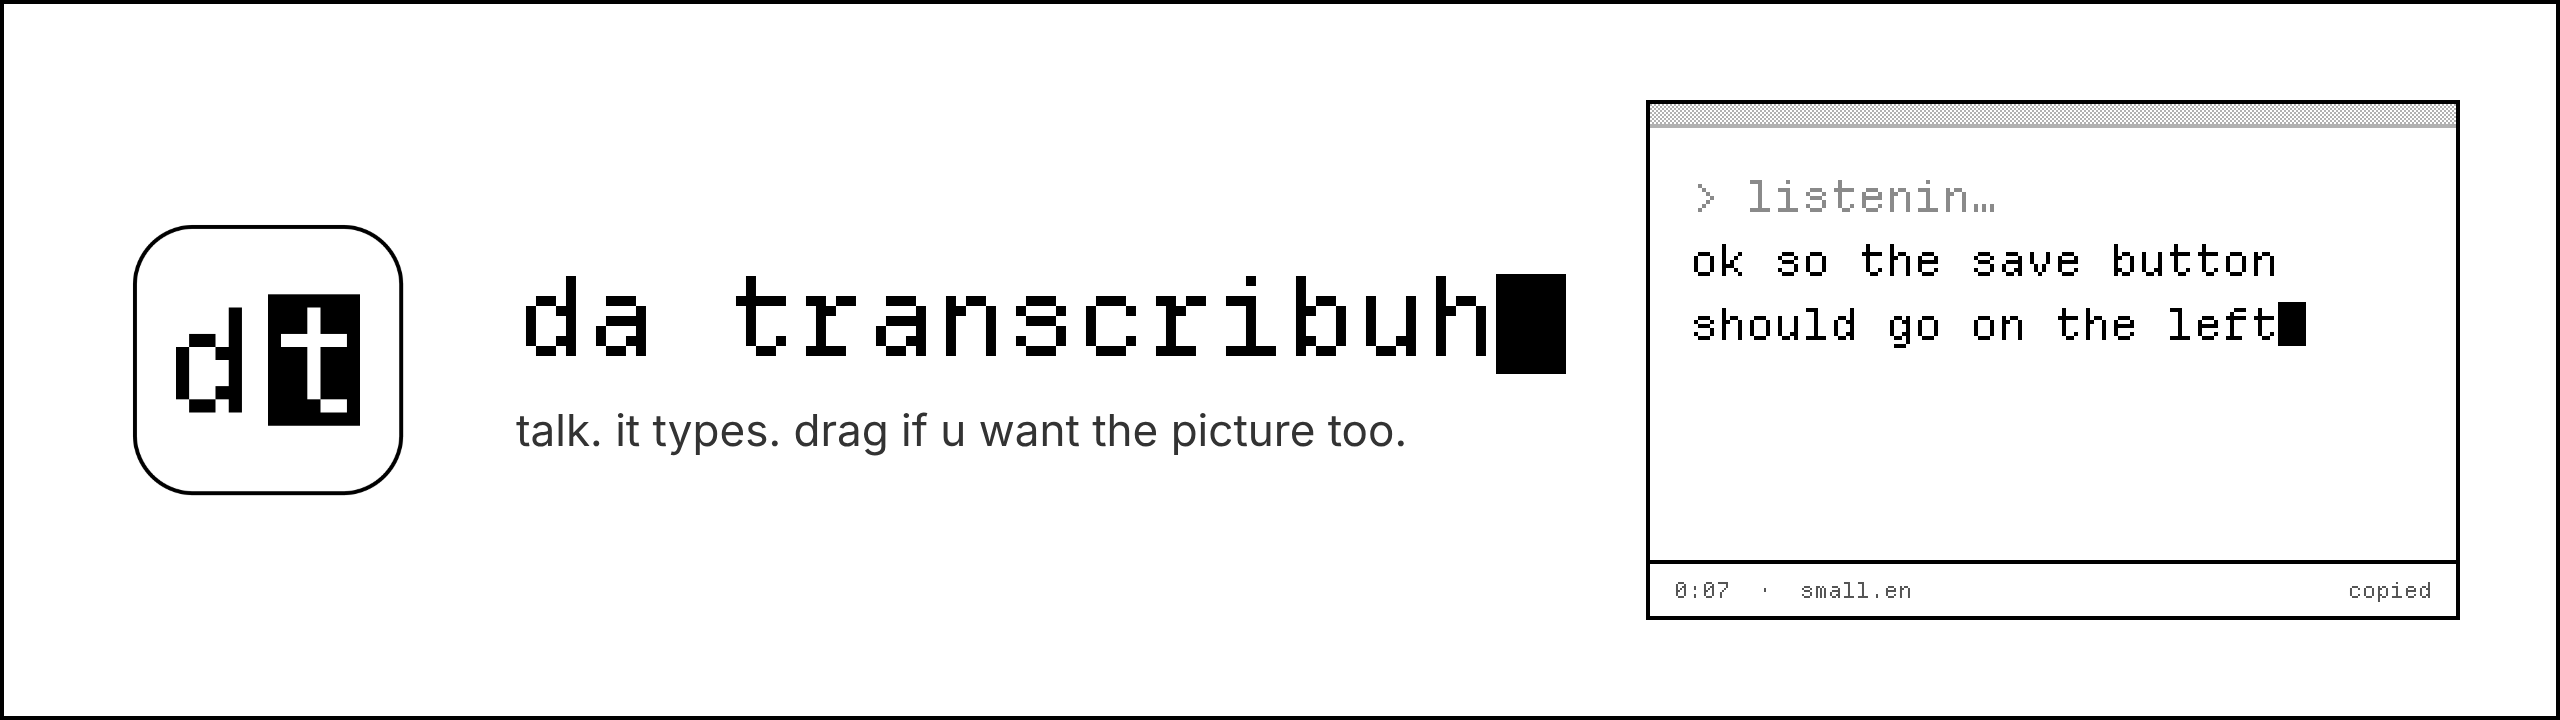
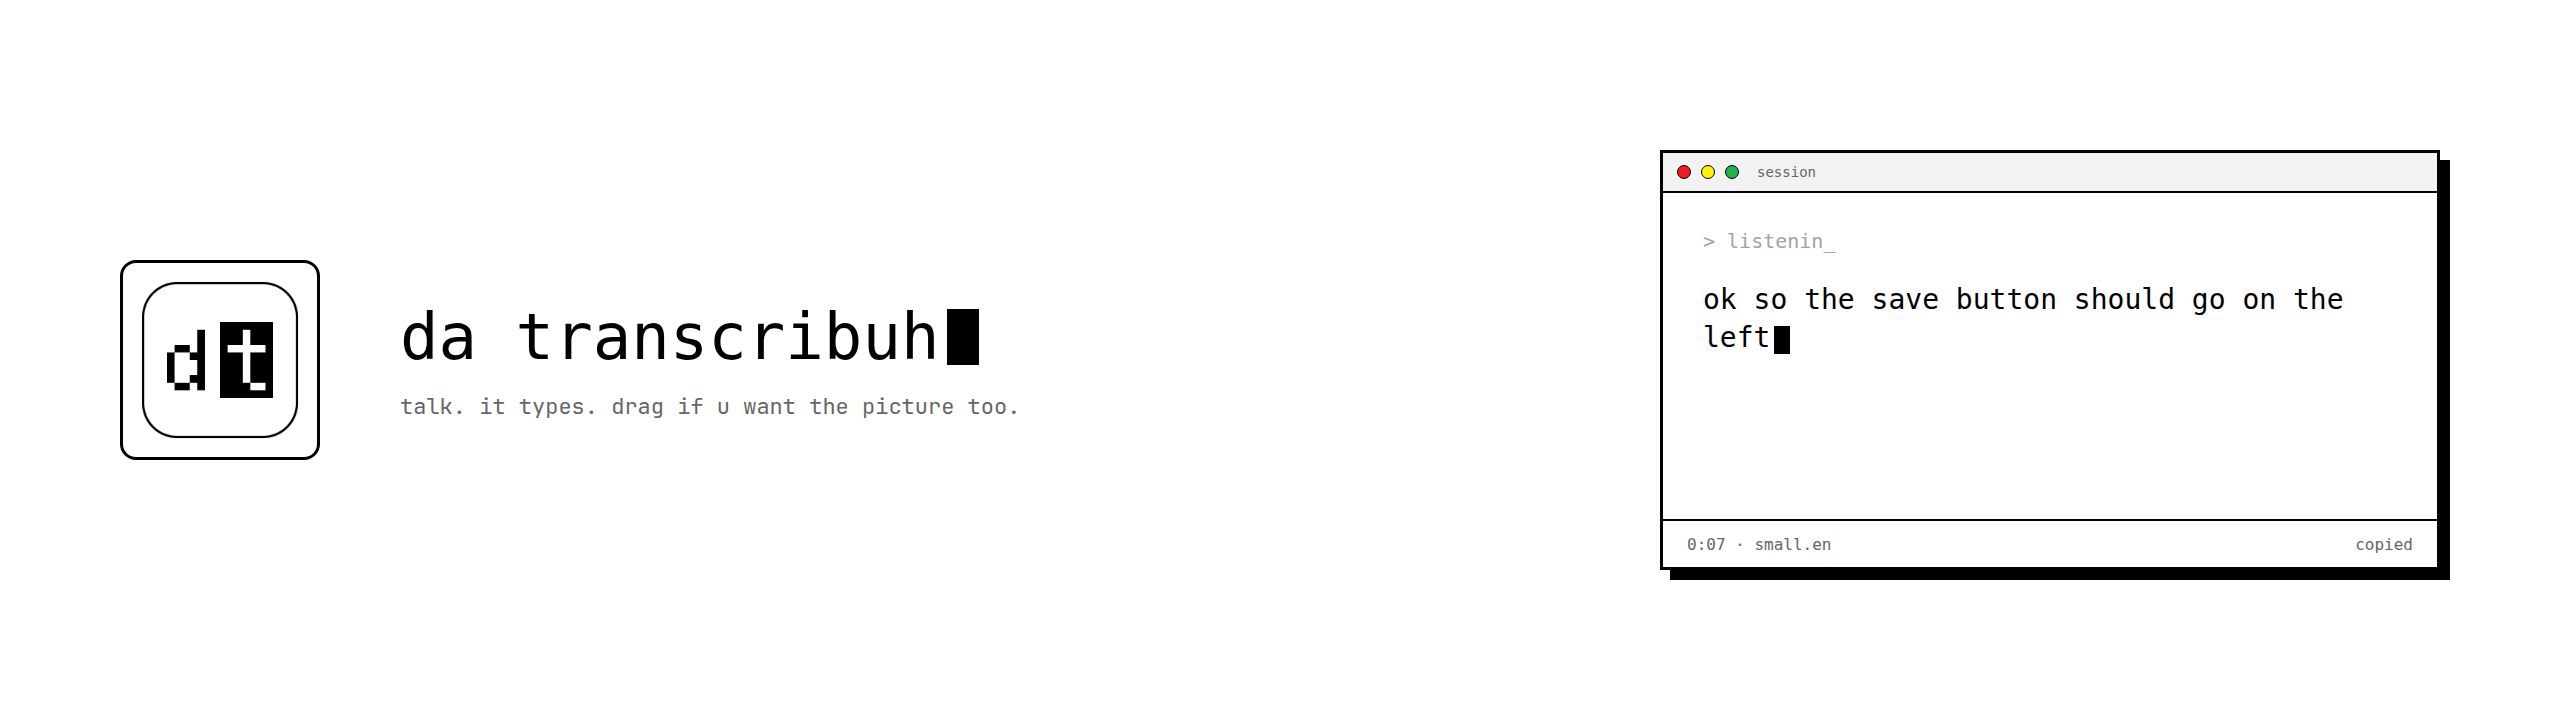
docs: README + brand art for B&W redesign and Paint accents
Refresh GitHub presentation after the UI redesign: look section,
light/dark settings mocks, social-preview.png with traffic-light dots,
and AUDIT_LOG Run 22. Drop the old overlay-unchanged story from copy.

diff --git a/README.md b/README.md
@@ -23,6 +23,21 @@
 
 <!-- TODO: drop a short demo gif at assets/demo.gif (talk, drag, paste) and embed it here when ready -->
 
+## look
+
+black and white chrome with a tiny bit of classic ms paint. departure mono for labels and chrome, sf mono for longer copy. custom scroll bars. system / light / dark from general (or cycle `theme: …` in the menu bar). the recording island, waveform, and annotate toolbar match the same ink — not a leftover overlay.
+
+paint shows up only where it helps: traffic-light dots when the window is key (`#ED1C24` / `#FFF200` / `#22B14C`), the record mark, and a green check when something’s actually done.
+
+<p align="center">
+  <picture>
+    <source media="(prefers-color-scheme: dark)" srcset="assets/brand/screenshots/settings-home-dark.png">
+    <img src="assets/brand/screenshots/settings-home-light.png" alt="da transcribuh settings — home" width="920">
+  </picture>
+</p>
+
+<p align="center"><em>settings home · light / dark follow your github theme</em></p>
+
 ## install
 
 download the [latest beta dmg](https://github.com/bicrick/da-transcribuh/releases/download/v0.9.0-beta.2/Mutter.dmg), open it, drag it to applications. done.
@@ -45,6 +60,7 @@ macos 14 or later. the first build fetches whisperkit.
 - hold **shift** and drag to grab a piece of the screen. release shift to keep the tile. stop the session and you get the picture with the words.
 - sessions save under `~/Documents/PromptAnnotator/Sessions/` (folder name stays put so your history doesn’t vanish).
 - on-device speech via whisperkit. bring your own core ml folder or hugging face variant if you want. optional openai-compatible server for the final transcript only.
+- settings window with a tool-palette sidebar, status bar, and the appearance switcher above. models page for downloads and byom.
 
 ## shortcuts
 
@@ -85,7 +101,7 @@ cancel drops the take. nothing gets staged.
 - **permissions look on but nothing works** — turn the switch off and on, then reopen.
 - **model missing** — open models and download balanced (or whatever you picked).
 - **paste missed the field** — check the menu bar for the ready-to-paste hint, focus a text field, then ⌃⌥V.
-- **updates** — configuration → check. releases live at [github.com/bicrick/da-transcribuh/releases](https://github.com/bicrick/da-transcribuh/releases).
+- **updates** — general → check. releases live at [github.com/bicrick/da-transcribuh/releases](https://github.com/bicrick/da-transcribuh/releases).
 
 ## brand bits
 
@@ -93,10 +109,12 @@ final **dt block** art lives in [`assets/brand/`](assets/brand/):
 
 - `wordmark-g-dt-block.png` / `wordmark-g-dt-block-dark.png` — lowercase “da transcribuh” plus a separate block cursor after the h (light / dark)
 - `icon-g-dt-block-1024.png` — app mark
-- `readme-banner.png`, `social-preview-1280x640.png`, `social-preview-2560x1280@2x.png`
+- `readme-banner.png` — hero (paint traffic lights on the session window mock)
+- `social-preview.png` (1280×640) — repo social preview; also mirrored as `social-preview-1280x640.png` / `@2x`
+- `screenshots/settings-home-light.png` / `settings-home-dark.png` — settings home mocks for the readme
 - `menubar-g-dt-block-16.png` / `menubar-g-dt-block-32.png` — template menu-bar glyph
 
-patrick: upload `social-preview-1280x640.png` (and the `@2x` if you want) under the repo’s **settings → general → social preview** — that part isn’t settable from here.
+patrick: upload `assets/brand/social-preview.png` under the repo’s **settings → general → social preview** at launch (repo stays private until then). that part isn’t settable from here.
 
 ## license
 

diff --git a/AUDIT_LOG.md b/AUDIT_LOG.md
@@ -6,7 +6,13 @@ Branch: `overnight-audit` (from `main`). Linux VM — no Xcode build. Changes ke
 
 ---
 
-## Final summary (Runs 1–21)
+## Final summary (Runs 1–22)
+
+### Run 22 — GitHub presentation (README / screenshots / social)
+
+- README: new **look** section (Departure Mono / SF Mono, custom scrollers, System/Light/Dark, island+waveform+annotate reskin, sparse Paint accents). Screenshot `<picture>` light/dark under `assets/brand/screenshots/`.
+- Brand: `social-preview.png` (1280×640) regenerated with paint traffic lights in the window mock; `readme-banner.png` same tiny touch. Overwhelmingly B/W. Legacy `social-preview-1280x640.png` / `@2x` kept in sync.
+- Copy: chill lowercase voice kept; dropped the old “overlay unchanged” story from user-facing docs (`AGENTS.md` already documents Run 20 reskin).
 
 ### Run 21 — Models layout polish + classic Paint accents
 
@@ -185,7 +191,7 @@ See summary. Mac checklist:
 
 1. Settings title strip: outlined lights (hover glyphs), centered wordmark + cursor, dither grip; drag window from strip; ⌘W closes, ⌘M minimizes; zoom toggles.
 2. Menu bar: click dt icon → B/W panel with 1px border + hard shadow; hover inverts rows; Start/Stop, paste, Finder, quit all work and dismiss the panel.
-3. Ready-to-paste / busy states still surface in the panel; island unchanged.
+3. Ready-to-paste / busy states still surface in the panel; island / waveform / annotate match B/W chrome (Run 20).
 
 ## Run 17 — Final dt-block brand assets
 
@@ -203,7 +209,7 @@ See summary. Mac checklist:
 2. Status bar at bottom shows idle/model/sessions/shortcut/version in mono.
 3. Wordmark is `da transcribuh` + solid block cursor (h not inverted); onboarding cursor blinks unless Reduce Motion.
 4. Menu bar shows dt template glyph; menu still works.
-5. Light + dark; record a session — island unchanged.
+5. Light + dark; record a session — island / waveform / annotate match B/W chrome (Run 20); Paint accents only on traffic lights / record / success.
 6. Run `InkThemeTests`.
 
 ---
